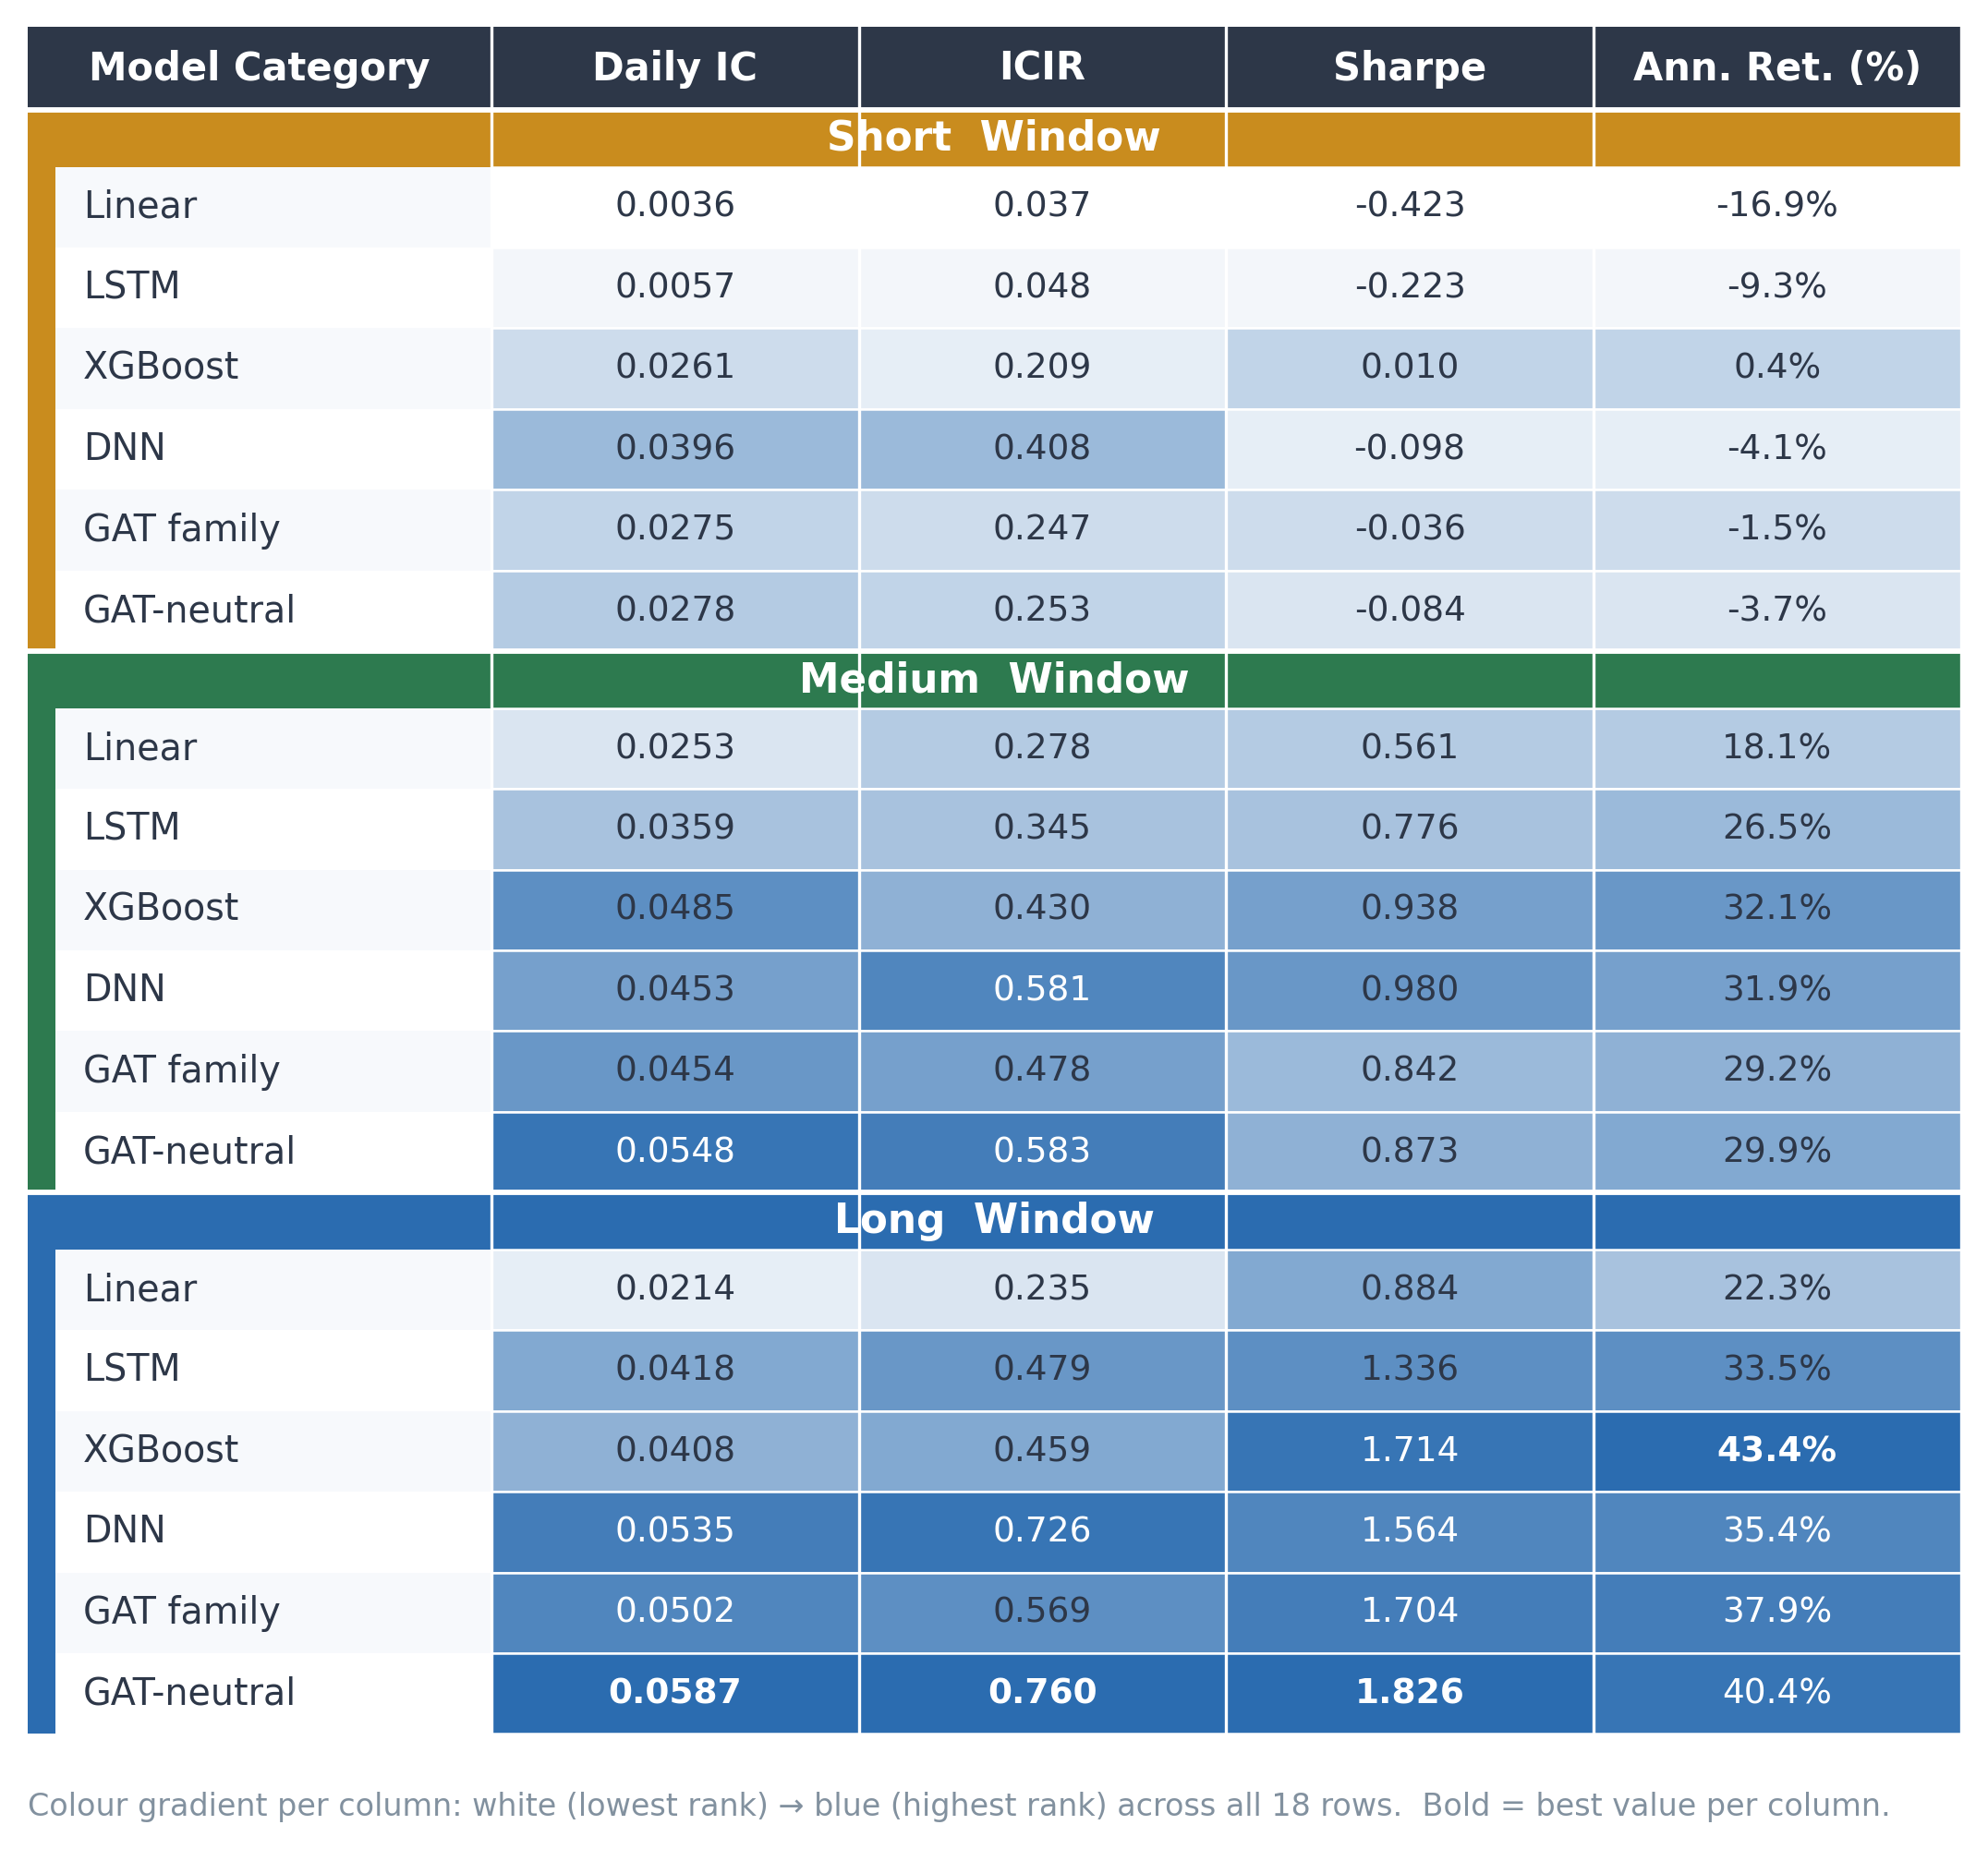
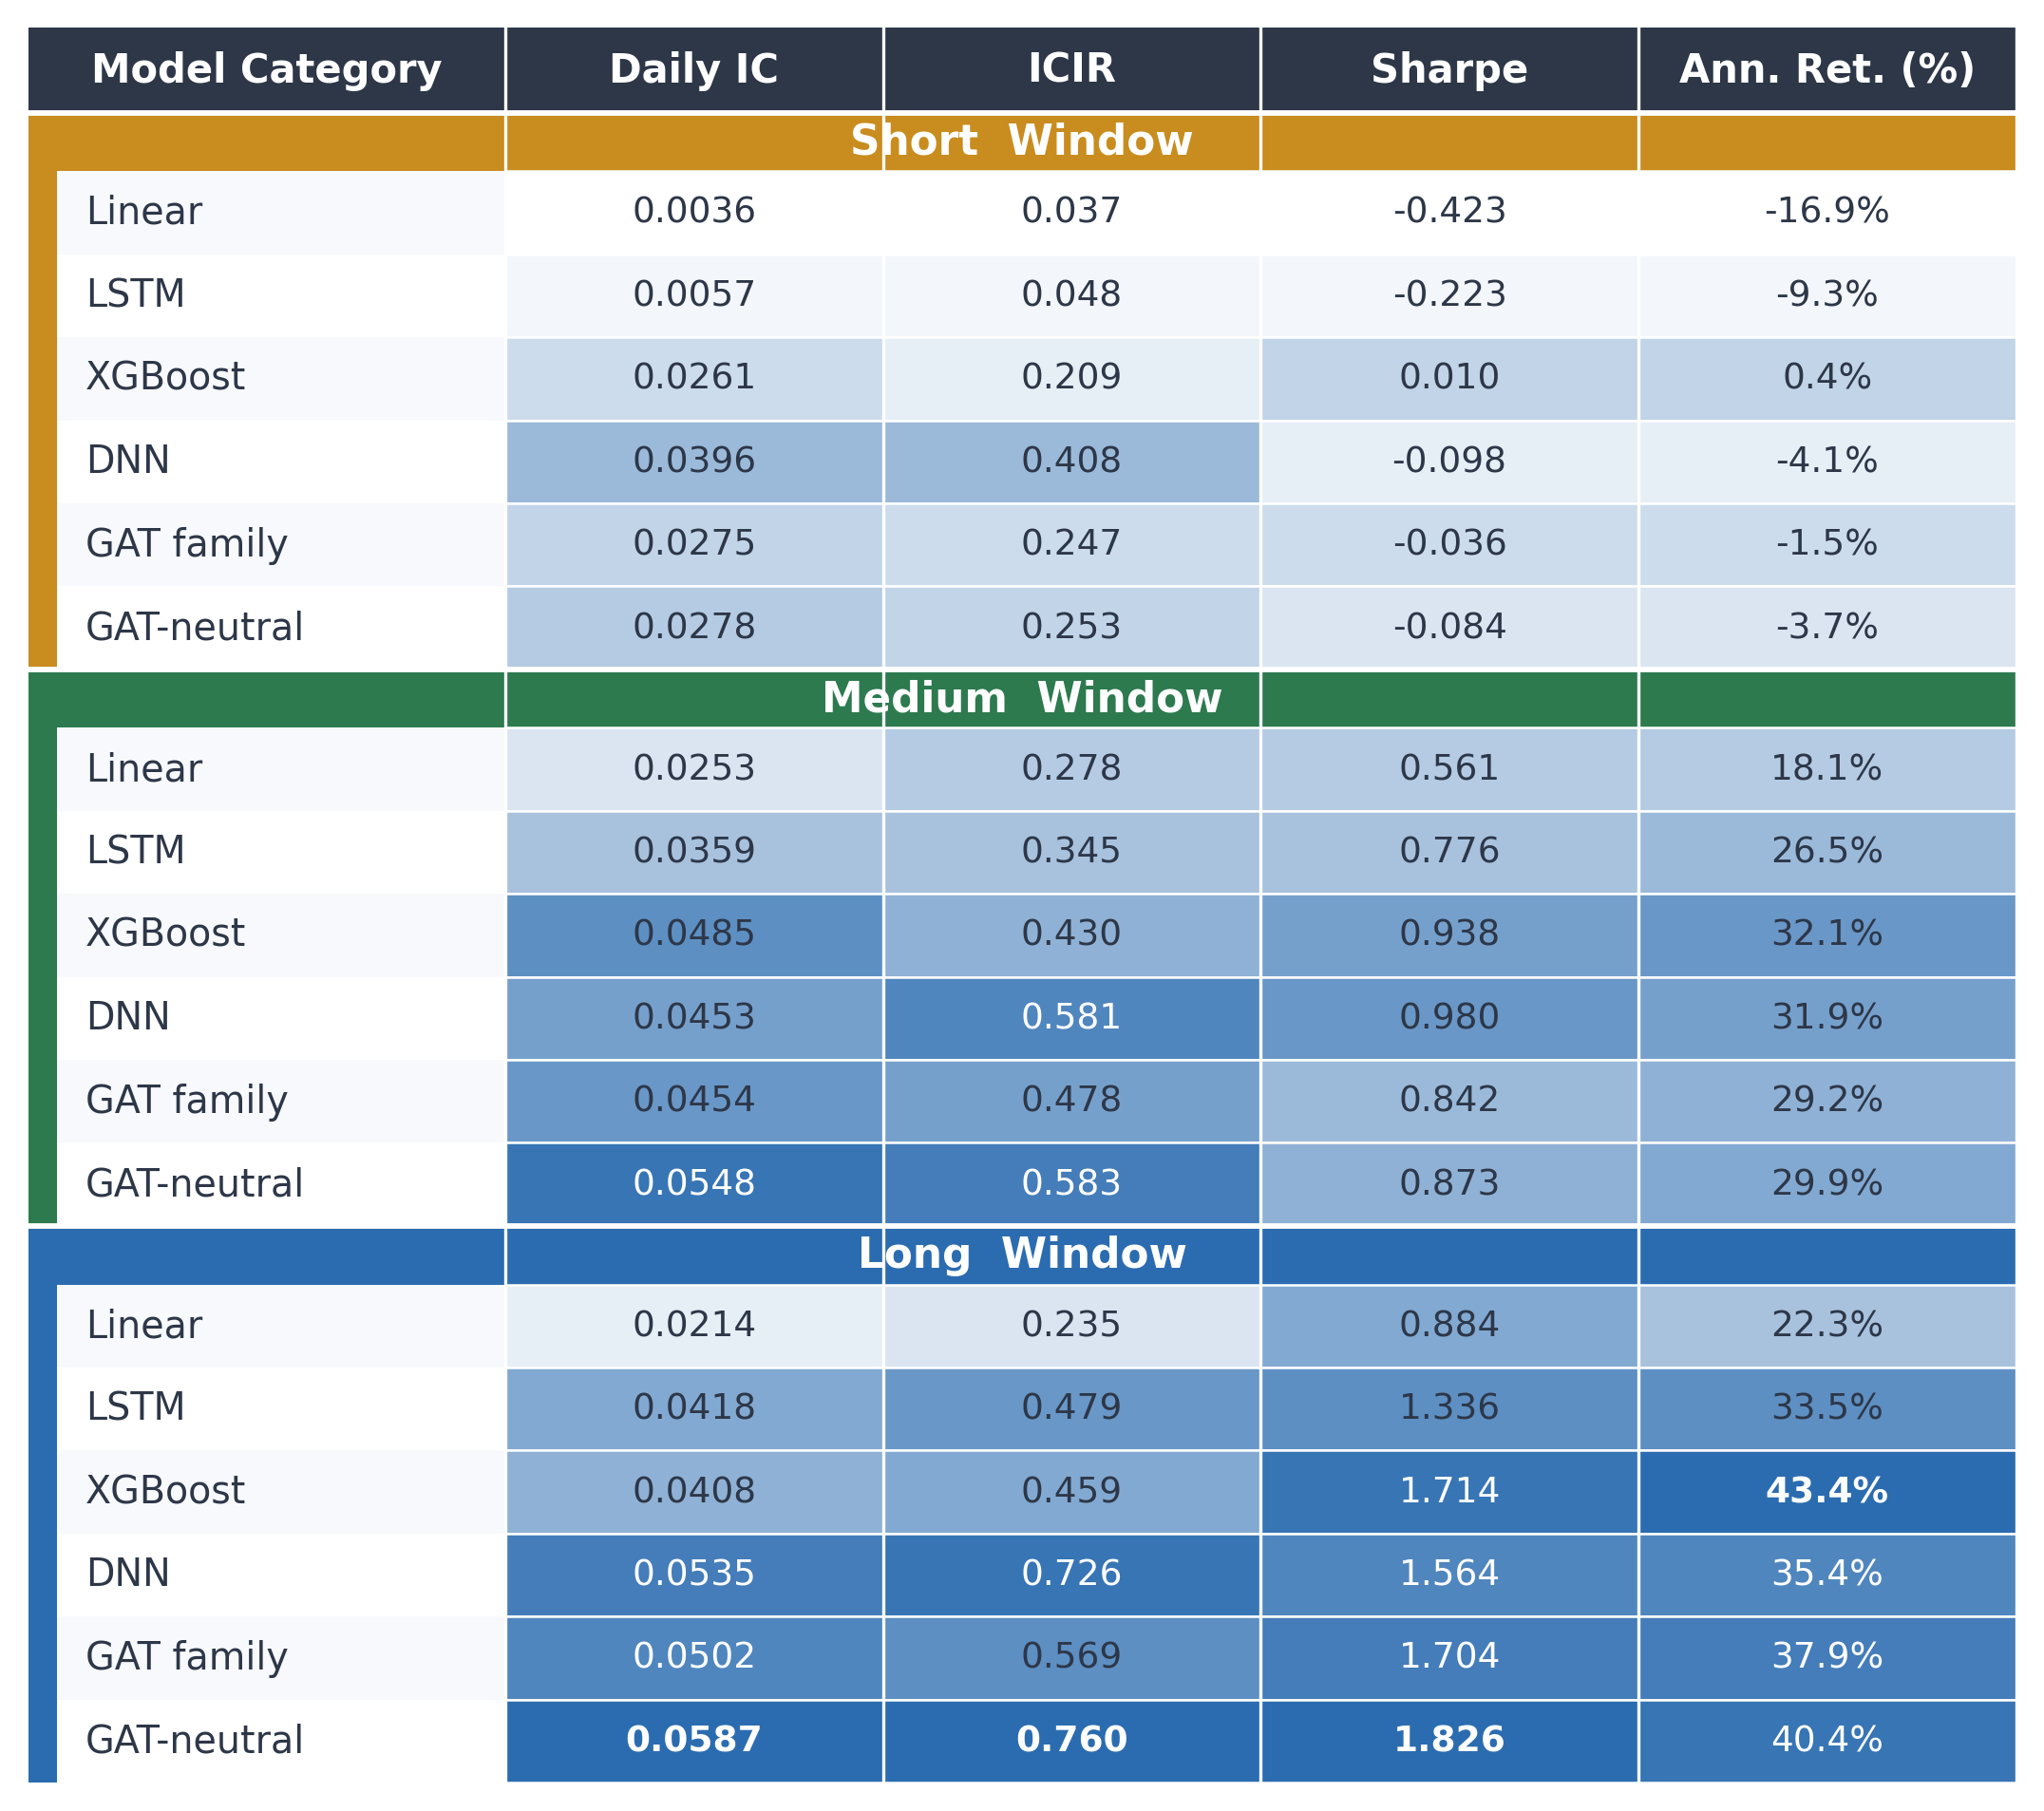
refactor(terminology): remove mixed Chinese-English across Ch2/Ch4/Ch6
Ch2 (Related Work):
- 梯度提升樹集成（XGBoost）與長短期記憶網路（LSTM）: add abbreviations on
  first mention; use XGBoost/LSTM directly in subsequent occurrences
- global pooling → 訊息過度聚合；噪音邊 → 弱相關連結
- graph topology → 圖的拓樸結構；signed/absolute correlation → 帶符號/絕對值相關係數
- sector neutralization/stock selection/sector bet → full Chinese equivalents
- representation-level neutralization/residualization/latent representation → Chinese
- ranking quality/absolute error → 排序品質/數值預測誤差
- stock selection model → 選股模型；time-varying cross-sectional IC → 時變截面資訊係數
- data snooping/selection bias → 多重檢定問題/選擇性偏誤
- rolling portfolio validation/benchmark → 滾動投資組合驗證/基準指數

Ch4 (§4.1 overview heatmap):
- Caption simplified to title only; explanatory text moved to body
- Narrative rewritten as proper academic prose (not enumerated prompt)
- Remove "colour gradient" footnote from generated PNG

Ch6 (Conclusion):
- GAT topology/neutralization variants → 圖注意力拓樸/中性化系列
- rank signal → 截面排序訊號；out-of-sample → 測試集；regime → 市場狀態
- trade-off → 取捨；signal quality → 訊號品質；exposure → 曝險
- pure alpha → 純截面選股訊號；baseline → 基準模型；train-test gap → 訓練-測試差距
- Future work: turnover-adjusted Sharpe/IR → Chinese; robustness → 穩健性驗證
- rolling 相關 → 滾動相關係數；regime → 市場狀態；exposure trade-off → 曝險取捨

diff --git a/Sections/2.Relatedwork.tex b/Sections/2.Relatedwork.tex
@@ -1,7 +1,7 @@
 \chapter{文獻回顧}
 \label{ch:relatedwork}
 
-本章依本文之研究問題整理文獻脈絡。本文在統一資料切分與評估框架下，依序檢驗技術與多因子特徵、非圖比較基準、股票關係圖、訊息傳遞設計與中性化設計，分別對截面報酬排序與投資組合績效的增量貢獻。因此，本章依序回顧截面報酬預測與股票選取問題、技術特徵與多因子表示、非圖比較基準模型（線性迴歸、梯度提升樹集成與長短期記憶網路）、股票關係圖建構、圖神經網路與 GAT 訊息傳遞機制、多因子中性化與消融實驗邏輯，以及 IC / ICIR 與投資組合績效驗證。
+本章依本文之研究問題整理文獻脈絡。本文在統一資料切分與評估框架下，依序檢驗技術與多因子特徵、非圖比較基準、股票關係圖、訊息傳遞設計與中性化設計，分別對截面報酬排序與投資組合績效的增量貢獻。因此，本章依序回顧截面報酬預測與股票選取問題、技術特徵與多因子表示、非圖比較基準模型（線性迴歸、梯度提升樹集成（XGBoost）與長短期記憶網路（LSTM））、股票關係圖建構、圖神經網路與 GAT 訊息傳遞機制、多因子中性化與消融實驗邏輯，以及 IC / ICIR 與投資組合績效驗證。
 
 % ============================================================
 \section{截面報酬預測與股票選取問題}
@@ -25,7 +25,7 @@
 \section{非圖比較基準模型}
 \label{sec:non_graph_baselines}
 
-本文在引入圖神經網路架構前，先建立三類不使用股票關係圖的比較基準：線性迴歸、梯度提升樹集成與長短期記憶網路。三者分別代表截面預測任務中的線性下限、非線性表格型建模能力與時間序列記憶能力，可在受控條件下衡量圖結構引入後的增量效益。若圖模型在特定視窗或指標上無法穩定超越上述基準，則圖結構的有效性便需回溯至拓樸設計、訊息傳遞機制與中性化設計本身加以解釋。
+本文在引入圖神經網路架構前，先建立三類不使用股票關係圖的比較基準：線性迴歸、XGBoost 與 LSTM，三者分別代表截面預測任務中的線性下限、非線性表格型建模能力與時間序列記憶能力，可在受控條件下衡量圖結構引入後的增量效益。若圖模型在特定視窗或指標上無法穩定超越上述基準，則圖結構的有效性便需回溯至拓樸設計、訊息傳遞機制與中性化設計本身加以解釋。
 
 % ------------------------------------------------------------
 \subsection{線性迴歸：截面排序的線性基準}
@@ -65,7 +65,7 @@ F_m(x) = F_{m-1}(x) + \eta \cdot h_m(x)
 
 如圖 \ref{fig:xgboost_concept} 所示，XGBoost 的訓練流程分為三個層次：第一層為單棵 CART 迴歸樹（Regression Tree），以訓練集建立初始預測；第二層在每一輪迭代中，新樹以前輪模型殘差的負梯度為學習目標，專注於修正既有預測的偏差集中區；第三層將所有輪次的樹乘以學習率後加總，形成最終的截面排序預測。此逐輪殘差修正機制使模型能以決策樹的分叉條件隱式捕捉特徵間的非線性交互作用，例如「高動能且低波動」或「估值偏低且近期成交量放大」等複合條件，毋需顯式構造特徵組合。
 
-在股票截面預測的應用文獻中，Wu 等人 \cite{WU2006270} 早期即展示決策樹在股票交易決策中的可行性；Ampomah 等人 \cite{ampomah2020tree_direction} 以樹狀集成模型評估股票價格方向預測，並在後續研究 \cite{ampomah2020tree_ensemble_stock} 中以 AdaBoost 集成建構股市決策支援系統；Nti 等人 \cite{nti2020ensemble_comprehensive} 則對集成學習方法在股市預測上的廣泛應用進行全面性評估；Saifan 等人 \cite{saifan2020ensemble_trading} 進一步驗證集成方法在演算法交易中的實務可行性。上述研究一致表明，在不引入序列記憶或圖結構的條件下，梯度提升樹集成已能建立具競爭力的截面預測基準，因此本文將其納入作為評估圖模型增量效益的非線性比較參照。
+在股票截面預測的應用文獻中，Wu 等人 \cite{WU2006270} 早期即展示決策樹在股票交易決策中的可行性；Ampomah 等人 \cite{ampomah2020tree_direction} 以樹狀集成模型評估股票價格方向預測，並在後續研究 \cite{ampomah2020tree_ensemble_stock} 中以 AdaBoost 集成建構股市決策支援系統；Nti 等人 \cite{nti2020ensemble_comprehensive} 則對集成學習方法在股市預測上的廣泛應用進行全面性評估；Saifan 等人 \cite{saifan2020ensemble_trading} 進一步驗證集成方法在演算法交易中的實務可行性。上述研究一致表明，在不引入序列記憶或圖結構的條件下，XGBoost 已能建立具競爭力的截面預測基準，因此本文將其納入作為評估圖模型增量效益的非線性比較參照。
 
 % ------------------------------------------------------------
 \subsection{長短期記憶網路：時間序列記憶能力}
@@ -101,11 +101,11 @@ h_t &= o_t \odot \tanh(c_t) \label{eq:lstm_hidden}
 
 金融市場中的股票具有明顯的截面相依性。個股報酬可能共同受到產業景氣、風格因子、總體市場風險偏好、資金流向與價格共動結構影響。股票關係圖提供一種將股票視為節點、將股票間關係視為邊的資料結構，使模型能在同一交易日聚合其他股票資訊。在以靜態結構關係建立圖的研究中，Song 等人 \cite{song2023stock} 結合股票價格與股票關係資訊建構圖聚合網路，用於截面排序預測；Huang 等人 \cite{huang2022mlgat} 則提出多層 GAT，捕捉不同層級的股票相依結構。在動態關係圖方面，Zhang 等人 \cite{xiang2022dynamic_gat} 引入動態屬性驅動的 GAT 建模行為金融場景中的時變股票關係；Wei 等人 \cite{wei2025fstgat} 以金融時空圖注意力網路處理報酬序列的非平穩性；Liu 等人 \cite{su2024hetero_gat} 則以異質雙動態注意力機制建模股票間的相互影響。上述研究共同指出，圖建構方式對模型效益具有直接影響。
 
-產業圖（industry graph）將同一產業內股票連結，用以表示產業共同成分與同業間資訊傳遞。其優點是經濟意義清楚、結構穩定且可重現；限制是無法捕捉跨產業共動與同產業內關係強度變化。市場圖（market graph）若採全截面連結，則不應被解讀為用來預測整體市場方向。尤其在本文標籤已做每日截面去均值後，市場共同方向已被部分移除；因此，市場圖更合理的定位，是一種全截面資訊聚合機制，用以檢驗模型是否能透過全市場節點互動捕捉當日共同風格、流動性或資金輪動訊號。其限制是全連接結構接近 global pooling，可能混入大量弱關係與噪音邊。
+產業圖（industry graph）將同一產業內股票連結，用以表示產業共同成分與同業間資訊傳遞。其優點是經濟意義清楚、結構穩定且可重現；限制是無法捕捉跨產業共動與同產業內關係強度變化。市場圖（market graph）若採全截面連結，則不應被解讀為用來預測整體市場方向。尤其在本文標籤已做每日截面去均值後，市場共同方向已被部分移除；因此，市場圖更合理的定位，是一種全截面資訊聚合機制，用以檢驗模型是否能透過全市場節點互動捕捉當日共同風格、流動性或資金輪動訊號。其限制在於全連接結構導致訊息過度聚合，可能將大量弱相關連結引入節點表示，進而稀釋個股截面差異。
 
 相關係數圖以滾動報酬相關建立時間變動邊，使邊的存在與權重可隨市場共動變化而更新。Mantegna \cite{mantegna1999hierarchical} 與 Onnela 等人 \cite{onnela2003dynamics} 說明相關係數網路可用於描述金融市場共動結構與其時間變化；Engle、Ledoit 與 Wolf \cite{engle2019large_dynamic_covariance} 則從大型動態共變異矩陣角度顯示，金融資產間的相關與共變異估計本身具有高維度與時間變動挑戰。
 
-因此，時間變動相關圖的價值與限制必須同時說明。滾動視窗太短時，相關係數估計較不穩定；滾動視窗太長時，圖結構反應市場狀態變化較慢。Top-\(k\) 稀疏化會改變 graph topology，使模型對鄰居選取規則敏感；使用 signed correlation 或 absolute correlation 也會導致不同經濟解讀。這些限制說明，時間變動關係圖需在相同資料切分、模型容量與評估設定下接受實證檢驗。
+因此，時間變動相關圖的價值與限制必須同時說明。滾動視窗太短時，相關係數估計較不穩定；滾動視窗太長時，圖結構反應市場狀態變化較慢。Top-$k$ 稀疏化會改變圖的拓樸結構，使模型對鄰居選取規則較為敏感；以帶符號或絕對值相關係數建邊亦會產生不同的經濟詮釋。這些限制說明，時間變動關係圖需在相同資料切分、模型容量與評估設定下接受實證檢驗。
 
 % ============================================================
 \section{圖神經網路與 GAT 訊息傳遞機制於股票網路中的角色}
@@ -155,9 +155,9 @@ h'_i = \sigma\!\left(\sum_{j \in \mathcal{N}(i)} \alpha_{ij}\, W h_j\right)
 
 多因子模型的核心目標，是將大量原始特徵轉換為較高層次的投資訊號表示。傳統因子模型常以線性暴露解釋股票報酬差異；深度多因子模型則進一步讓模型從高維度特徵中學習非線性因子表示。Wei、Dai 與 Lin \cite{wei2022factor} 提出的 Deep Multi-Factor Model 以深度表示、因子收益與注意力解釋模組結合，提供本文設計多因子表示架構的重要參考。
 
-在量化股票選取中，中性化的目的通常是降低策略對非目標風險來源的暴露，例如產業、規模、價值或市場 beta。Ehsani、Harvey 與 Li \cite{ehsani2023sector_neutrality} 討論 sector neutralization 在 factor investing 中的效果，指出中性化可能有助於分離 stock selection 與 sector bet，但其效果也會依投資組合型態而異。這提醒本文不能只宣稱「中性化必然更好」，而應把中性化視為一個需要實證檢驗的模型設計。
+在量化選股中，中性化的目的在於降低策略對非目標風險來源的曝險，常見目標包括產業效應、規模效應、價值效應或市場系統性風險。Ehsani、Harvey 與 Li \cite{ehsani2023sector_neutrality} 探討截面產業中性化在多因子選股中的效果，指出中性化可能有助於分離個股選擇訊號與產業配置偏誤，但其效果亦因投資組合型態而存在差異。上述研究提示，中性化設計不應視為必然改善的先驗假設，而應作為需要實證驗證的模型決策。
 
-同時，本文之中性化屬於 representation-level neutralization，概念上借鑑傳統因子中性化，實作位置則落在模型表示層。傳統 residualization 通常透過迴歸移除特定暴露；表示層中性化則在神經網路 latent representation 中嘗試分離個股語境、產業共同成分與市場共同成分。因此，第 2 章只需說明中性化與消融實驗的必要性，具體模型命名、資料流與數學形式應在方法章定義。
+本文採用的中性化方案屬於表示層中性化，概念上借鑑傳統多因子中性化，但實作位置落在神經網路的中間表示層，而非最終輸出層。傳統殘差化方法通常以截面迴歸方式移除特定風格曝險；本文之表示層中性化則在網路的潛在表示中嘗試分離個股截面訊號、產業共同成分與市場共同成分。具體模型命名、資料流與數學形式留待方法章詳細定義。
 
 消融實驗是辨識各模組效益的必要設計。若只比較一個完整圖模型與一個比較基準，無法判斷提升究竟來自非線性特徵編碼、時間序列記憶、產業圖、全市場圖、動態相關係數圖、注意力機制或中性化設計。更嚴謹的作法，是在相同資料、相同切分、相同訓練流程與相近模型容量下，逐步加入或移除關鍵模組。如此可判斷模型改善是否源於特定設計，並降低資料範圍、訓練設定或模型複雜度差異造成的混淆。
 
@@ -165,14 +165,14 @@ h'_i = \sigma\!\left(\sum_{j \in \mathcal{N}(i)} \alpha_{ij}\, W h_j\right)
 \section{IC / ICIR 與投資組合績效驗證}
 \label{sec:ic_icir_portfolio_validation}
 
-本文任務以股票排序為核心，ranking quality 比 absolute error 更貼近投資決策。RMSE / MAE 衡量預測值與真實值的數值距離；IC / ICIR 則衡量模型分數在每日截面上的股票排序能力。資訊係數（Information Coefficient, IC）通常定義為模型分數與未來報酬在同一交易日股票截面上的相關係數；Zhang、Guo 與 Cao \cite{zhang2020information_coefficient} 即將 IC 視為 stock selection model 的績效衡量方式。Ding 與 Sun \cite{ding2022timevarying_ic} 討論 time-varying cross-sectional IC 的統計性質；Qian 與 Hua \cite{qian2004active_risk} 則將 IC 與投資組合資訊比率連結，指出訊號品質與有效下注寬度共同決定策略績效。
+本文任務以股票截面排序為核心，排序品質比數值預測誤差更直接對應投資決策。均方根誤差（RMSE）與平均絕對誤差（MAE）衡量預測值與真實值之數值距離，對截面相對排名的反映較為間接；資訊係數（IC）與資訊係數比率（ICIR）則直接衡量模型分數在每日截面上的股票排序能力，與選股訊號的可用性更為對應。IC 通常定義為模型分數與未來報酬在同一交易日股票截面上的相關係數；Zhang、Guo 與 Cao \cite{zhang2020information_coefficient} 即以 IC 作為選股模型的核心績效指標。Ding 與 Sun \cite{ding2022timevarying_ic} 探討時變截面資訊係數的統計性質；Qian 與 Hua \cite{qian2004active_risk} 則將 IC 與投資組合資訊比率連結，指出訊號品質與有效下注寬度共同決定策略績效。
 
 然而，截面選股模型即使在 IC 上表現良好，也不必然能產生可投資績效。原因在於投資組合績效同時受到排序前段股票的集中度、再平衡頻率、波動、跌幅、交易成本與換手率影響。Sharpe \cite{sharpe1994ratio} 提出的 Sharpe ratio 是常用的風險調整後報酬指標；但在策略比較中，若只報告高 Sharpe 而未考慮樣本長度與多重測試，容易高估策略穩健性。
 
 投資實證文獻亦指出，交易成本與換手會顯著影響訊號可實現性。Ye \cite{ye2008signal_quality} 與 Zhang 等人 \cite{zhang2021turnover_ir} 討論訊號品質、換手與資訊比率之間的關係；Keim 與 Madhavan \cite{keim1997transaction_costs} 以及 Novy-Marx 與 Velikov \cite{novy_marx2016taxonomy} 則說明不同交易風格與異常報酬在扣除交易成本後可能大幅衰減。因此，若策略採用高頻再平衡或選入流動性較差股票，無摩擦回測結果應被視為上限估計。
 
-此外，多模型、多期間、多指標比較容易產生 data snooping 與 selection bias。White \cite{white2000reality_check} 提出 Reality Check 以處理資料探勘下的模型比較；Bailey 與 Lopez de Prado \cite{bailey2014deflated_sharpe} 討論 Deflated Sharpe Ratio，用於修正策略選擇偏誤與非正態報酬；Harvey、Liu 與 Zhu \cite{harvey2016cross_section} 則指出大量因子檢定會提高偽陽性風險。這些文獻提醒，本文後續呈現多組統一實驗結果時，應將 winner 解讀為同一實驗設定下的條件性結果，而非未經檢定的普遍最優策略。
+此外，多模型、多期間、多指標比較容易引入多重檢定問題與選擇性偏誤。White \cite{white2000reality_check} 提出 Reality Check 以處理資料探勘下的模型比較；Bailey 與 Lopez de Prado \cite{bailey2014deflated_sharpe} 討論 Deflated Sharpe Ratio，用於修正策略選擇偏誤與非正態報酬分布帶來的誤判；Harvey、Liu 與 Zhu \cite{harvey2016cross_section} 則指出大量因子檢定會提高偽陽性風險。這些文獻提醒，本文後續呈現多組統一實驗結果時，應將表現最優者解讀為同一實驗設定下的條件性結果，而非未經多重檢定修正的普遍最優策略。
 
-在 rolling portfolio validation 上，較嚴謹的作法是於每個再平衡日使用當期模型分數排序股票，選取固定比例或固定檔數股票，等權或依權重持有至下一再平衡日，並將策略報酬與 benchmark 在完全相同日期、相同持有期下對齊。此流程可將預測層訊號轉換為投資層績效，但仍須明確說明交易時點、持有期、再平衡頻率、交易成本與 benchmark 對齊方式。
+在滾動投資組合驗證中，較嚴謹的做法是於每個再平衡日使用當期模型分數排序股票，選取固定比例或固定檔數股票，等權或依比例持有至下一再平衡日，並將策略報酬與基準指數在完全相同日期、相同持有期下對齊。此流程可將預測層訊號轉換為投資層績效，但仍須明確說明交易時點、持有期、再平衡頻率、交易成本與基準指數的對齊方式。
 
 % ============================================================

diff --git a/Sections/6.Conclusion.tex b/Sections/6.Conclusion.tex
@@ -1,22 +1,22 @@
 \chapter{結論與未來工作}
 \label{ch:conclusion}
 
-本文以 TEJ 台股日頻資料建立 56 維技術與估值特徵，並在統一圖模型 pipeline 下比較 Linear、XGBoost、LSTM、DNN、GAT topology variants 與 GAT neutralization / factor-attention variants。實證結果顯示，台股橫斷面報酬預測的關鍵在於訓練視窗長度、圖拓樸與模型結構如何共同影響 rank signal 與投組表現，而非單純比較特定模型架構是否優越。
+本文以 TEJ 台股日頻資料建立 56 維技術與估值特徵，在統一實驗框架下比較線性迴歸、XGBoost、LSTM、DNN、圖注意力拓樸系列與圖注意力中性化系列共九類模型。實證結果顯示，台股橫斷面報酬預測的關鍵在於訓練視窗長度、圖拓樸設計與模型結構如何共同影響截面排序訊號品質與投資組合績效，而非單純比較特定模型架構是否具備整體優越性。
 
-第一個主要發現是，長視窗訓練顯著提高 out-of-sample 可用性。Short window 雖能產生部分正向 Daily IC，但多數模型的投資組合年化報酬接近 0 或為負；medium 與 long window 才穩定轉化為正向 Sharpe。Long window 下，GAT neutralization family 的平均 Daily IC 為 0.0587、平均 Sharpe 為 1.826；GAT family 為 0.0502 與 1.704；DNN 為 0.0535 與 1.564。這表示較長樣本更能覆蓋市場 regime，使模型學到的橫斷面排序訊號更穩定。
+第一個主要發現是，長期訓練視窗顯著提升模型在測試集的可用性。短期視窗雖能產生部分正向 Daily IC，但多數模型的投資組合年化報酬接近零或為負；中、長期視窗才穩定轉化為正向 Sharpe 比率。長期視窗下，GAT 中性化系列的平均 Daily IC 為 0.0587、平均 Sharpe 比率為 1.826；GAT 拓樸系列為 0.0502 與 1.704；DNN 為 0.0535 與 1.564。較長的訓練樣本能覆蓋更多元的市場狀態，使模型習得的截面排序訊號更具跨期穩健性。
 
-第二個主要發現是，圖拓樸設計的選擇對模型表現具有決定性影響，其重要性高於圖結構是否存在本身。GAT-industry 在 medium 與 long window 的 Daily IC 與 Sharpe 均優於 GAT-universe，支持具有明確經濟意義之產業圖拓樸。相對地，全市場完全圖容易混入市場共同成分，其 long window Daily IC 與 Sharpe 甚至低於不使用圖結構的 DNN。此結果說明圖模型的效益取決於拓樸是否能有效保留個股截面差異，而非 message passing 機制本身。
+第二個主要發現是，圖拓樸設計的選擇對模型表現具有決定性影響，其重要性高於圖結構是否存在本身。GAT-industry 在中、長期視窗的 Daily IC 與 Sharpe 比率均優於 GAT-universe，支持以具明確產業關聯意義的圖拓樸為基礎建構模型。相對地，全市場完全連結圖容易引入市場共同成分，其長期視窗 Daily IC 與 Sharpe 比率甚至低於不使用圖結構的 DNN。此結果顯示，圖模型的效益取決於拓樸能否有效保留個股截面差異，而非訊息傳遞機制本身。
 
-第三個主要發現是，GAT 與 factor-attention 類模型在 signal quality 指標上表現最為穩定。Medium window 中 GAT-full 取得全模型最高 Daily IC（0.0596）與 ICIR（0.628）；Long window 中 GAT-IndNeutral 取得最高 Daily IC（0.0590）與 ICIR（0.786），GAT-full 則取得最高 Sharpe（1.849）與 42.02\% 年化報酬。此結果揭示兩者之間的 trade-off：GAT-IndNeutral 以較高的 ICIR 代表純 alpha 排序訊號的穩定性，而 GAT-full 因保留較多產業與市場 exposure，在有利市場環境下可轉化為較高的投組絕對報酬。
+第三個主要發現是，圖注意力中性化系列在訊號品質指標上表現最為穩定。中期視窗中，GAT-full 取得全模型最高 Daily IC（0.0596）與 ICIR（0.628）；長期視窗中，GAT-IndNeutral 取得最高 Daily IC（0.0590）與 ICIR（0.786），GAT-full 則取得最高 Sharpe 比率（1.849）與年化報酬（42.02\%）。兩者之間存在可觀察的取捨關係：GAT-IndNeutral 以較高的 ICIR 反映純截面選股訊號的穩定性，而 GAT-full 因保留較高程度的產業與市場曝險，在有利市場環境下可轉化為較高的投資組合絕對報酬。
 
-此外，baseline 模型的結果值得正視。DNN 在 short 與 medium window 取得相當具競爭力的 IC 與 Sharpe，顯示 56 維技術與估值特徵本身已提供可觀的截面排序訊號；圖模型的貢獻應被定位為長視窗下的穩定性、拓樸可解釋性與增量效益，而非對非圖模型的全面性主導優勢。XGBoost 在 long window 的總報酬達 143.08\%，但 Train IC 為 0.7824、Test IC 僅 0.0205，呈現顯著 train-test gap，說明其投組層級表現背後存在過擬合風險，不宜以單一報酬指標概括其預測品質。
+此外，基準模型的結果值得正視。DNN 在短、中期視窗取得相當具競爭力的 IC 與 Sharpe 比率，顯示 56 維技術與估值特徵本身已提供可觀的截面排序訊號；圖模型的貢獻應定位為長視窗下的訊號穩健性、拓樸可解釋性與結構性改善，而非對非圖模型的全面優勢。XGBoost 在長期視窗的累積報酬達 143.08\%，但訓練集資訊係數（0.7824）與測試集資訊係數（0.0205）之差距高達 38 倍，顯示其投資組合層級的高報酬背後存在顯著的過擬合風險，不宜以單一報酬指標概括其預測品質。
 
 未來研究將聚焦於下列工作：
 
 \begin{itemize}
-  \item \textbf{納入交易成本、滑價與換手控制：}本文目前之回測仍屬無摩擦市場設定；後續可將手續費、滑價與換手率懲罰納入，並進一步評估 turnover-adjusted Sharpe / IR，以確認超額報酬在實務落地後的可持續性。
-  \item \textbf{補強統計穩健性檢定：}除現有 IC、ICIR 與投組績效比較外，後續可加入 paired t-test、bootstrap / block bootstrap、滾動視窗穩健性檢定與不同市場狀態分組分析，以更嚴謹地評估模型優勢是否具跨樣本穩定性。
-  \item \textbf{檢查圖構建的 look-ahead 風險：}圖結構必須明確說明是否只使用訓練期資訊或穩定外生分類；若任何邊或權重使用全樣本資訊，需重新以訓練期資料建立圖並進行 robustness 檢查。
-  \item \textbf{擴充關係圖對照：}後續可加入滾動相關、成交量共動、基本面相似度或供應鏈關係等其他圖建構方式，並檢驗其是否在不引入估計噪音的情況下改善 ICIR 與投組風險。
-  \item \textbf{補充分年度與市場 regime 分析：}可依牛市、熊市、震盪期或利率環境分組檢查 IC 與投組績效，特別觀察 GAT-full 與 GAT-IndNeutral 在不同 regime 下的產業 exposure trade-off。
+  \item \textbf{納入交易成本、滑價與換手控制：}本文目前之回測仍屬無摩擦市場設定；後續可將手續費、滑價與換手率懲罰納入，並進一步評估換手調整後的 Sharpe 比率與資訊比率，以確認超額報酬在實務落地後的可持續性。
+  \item \textbf{補強統計穩健性檢定：}除現有 IC、ICIR 與投組績效比較外，後續可加入成對 $t$ 檢定、拔靴法（bootstrap）、區塊拔靴法（block bootstrap）、滾動視窗穩健性檢定與不同市場狀態分組分析，以更嚴謹地評估模型優勢是否具跨樣本穩定性。
+  \item \textbf{檢查圖建構的前視性風險：}圖結構必須明確說明是否只使用訓練期資訊或穩定外生分類；若任何邊或權重使用全樣本資訊，需重新以訓練期資料建立圖並進行穩健性驗證。
+  \item \textbf{擴充關係圖對照：}後續可加入滾動相關係數圖、成交量共動圖、基本面相似度圖或供應鏈關係圖等其他建構方式，並檢驗其是否在不引入估計噪音的情況下改善 ICIR 與投組風險。
+  \item \textbf{補充分年度與市場狀態分析：}可依牛市、熊市、震盪期或利率環境分組檢查 IC 與投組績效，特別觀察 GAT-full 與 GAT-IndNeutral 在不同市場狀態下的產業曝險取捨。
 \end{itemize}

diff --git a/Sections/4.Methodology.tex b/Sections/4.Methodology.tex
@@ -19,21 +19,15 @@
 \begin{figure}[H]
   \centering
   \includegraphics[width=\textwidth]{img/ch4_fig_overview_heatmap.png}
-  \caption{各訓練視窗下六類模型之核心指標概覽（共 18 條紀錄）。GAT family 為 GAT-universe、GAT-industry、GAT-TwoGraph 三個模型之組內平均；GAT-neutral 為 GAT-IndNeutral、GAT-full 兩個模型之組內平均；其餘類別（Linear、LSTM、XGBoost、DNN）均為單一模型結果。各欄以全域排名白→藍漸層著色，粗體為全表最高值。}
+  \caption{各訓練視窗下六類模型之核心指標概覽。}
   \label{fig:ch4_overview_heatmap}
 \end{figure}
 
-圖~\ref{fig:ch4_overview_heatmap} 以漸層色彩呈現完整 27 組實驗（依模型類別匯整為 18 條紀錄）的整體格局，讀者可快速定位各視窗與模型類別的相對強弱。三點關鍵觀察作為後續各節分析的座標：
+圖~\ref{fig:ch4_overview_heatmap} 彙整全體 27 組實驗之結果，依六類模型類別與三個訓練視窗呈現，共 18 條紀錄。其中 GAT family 為 GAT-universe、GAT-industry、GAT-TwoGraph 三個模型之組內平均；GAT-neutral 為 GAT-IndNeutral、GAT-full 兩個模型之組內平均；其餘四類（Linear、LSTM、XGBoost、DNN）均為單一模型結果。各欄以全域排名為基礎著色：白色代表 18 條紀錄中的最低排名，藍色代表最高排名；粗體標示各欄全表最高值。
 
-\begin{enumerate}
-  \item \textbf{訓練視窗為最大分水嶺。}短期視窗除 XGBoost 外，所有模型的 Sharpe 比率均為負值，年化報酬亦多數顯著偏負，顯示短訓練樣本對模型穩健性的制約遠大於架構設計本身的差異；中、長期視窗下排序訊號品質（Daily IC、ICIR）與投資組合績效則整體轉為正向。
+由圖可歸納三項結構性規律，供後續各節分析參照。第一，訓練視窗對模型表現具決定性影響。短期視窗下除 XGBoost 外所有模型的 Sharpe 比率均為負值，年化報酬亦多數顯著偏負，顯示短訓練樣本對跨期穩健性的制約明顯高於架構設計本身的差異；中、長期視窗下排序訊號品質（Daily IC、ICIR）與投資組合績效則整體改善。第二，長期視窗下中性化系列在多項指標上同時達到最高水準。GAT-neutral 在長期視窗的 Daily IC（0.0587）、ICIR（0.760）與 Sharpe 比率（1.826）均為全表最高，顯示分層中性化設計在充足訓練樣本下具有跨指標的一致優勢。第三，XGBoost 的長期視窗年化報酬（43.37\%）雖為全表最高，但訓練集與測試集資訊係數之差距高達 38 倍（詳見第~\ref{subsec:xgboost_results}~節），說明以單一報酬指標評估訊號品質存在明顯侷限。
 
-  \item \textbf{長期視窗中性化系列最具競爭力。}GAT-neutral 在長期視窗的 Daily IC（0.0587）、ICIR（0.760）與 Sharpe 比率（1.826）三項指標均為全表最高（粗體），色深在同視窗內亦屬最深，顯示分層中性化設計在長期視窗下具有穩健的跨指標優勢。
-
-  \item \textbf{XGBoost 年化報酬最高，但訊號穩健性待驗。}長期視窗下 XGBoost 的年化報酬（43.37\%）為全表最高，然其訓練集與測試集資訊係數之差距高達 38 倍（詳見第~\ref{subsec:xgboost_results}~節），提示以單一報酬指標評估模型品質的侷限。
-\end{enumerate}
-
-後續各節以此全局視角為基礎，依序深入分析各模型類別的結構差異與效益來源。
+後續各節以此全局分布為起點，依序就模型架構差異、圖拓樸設計與中性化機制展開細部分析。
 
 \FloatBarrier
 

diff --git a/scripts/generate_ch4_figures.py b/scripts/generate_ch4_figures.py
@@ -844,12 +844,6 @@ def fig_overview_heatmap():
         ax.plot([xv, xv], [0, TOTAL_Y],
                 color="white", lw=0.8, zorder=4)
 
-    # ── Footnote ─────────────────────────────────────────────────────────────
-    ax.text(0, -0.55,
-            "Colour gradient per column: white (lowest rank) → blue (highest rank) across all 18 rows.  Bold = best value per column.",
-            ha="left", va="top", fontsize=8, color=MIDGRAY,
-            transform=ax.transData, clip_on=False)
-
     fig.savefig(OUT_DIR + "/ch4_fig_overview_heatmap.png",
                 dpi=300, bbox_inches="tight")
     plt.close(fig)